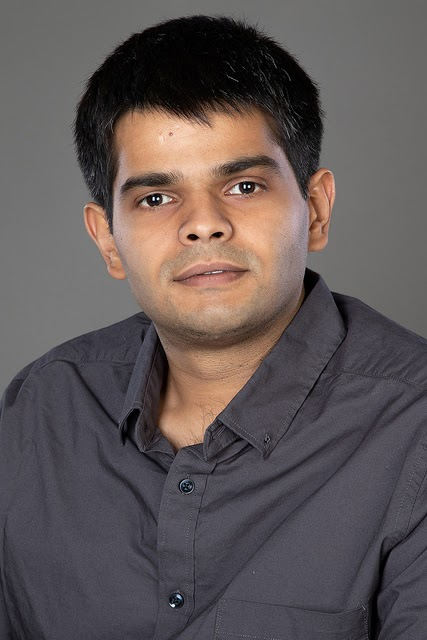
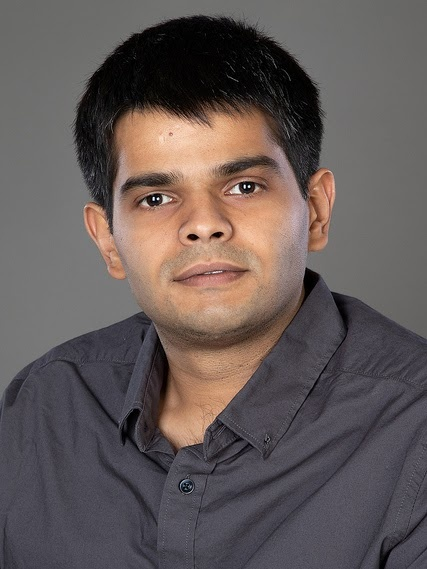
working on blog posts, cropped faculty images to ratio

diff --git a/_includes/header.html b/_includes/header.html
@@ -5,9 +5,23 @@
       <nav id="navbar" class="navbar navbar-light navbar-expand-sm {% if site.navbar_fixed %}fixed-top{% else %}sticky-top{% endif %}">
         <div class="container">
           {% if page.permalink != '/' -%}
-          <a class="navbar-brand title font-weight-lighter" href="{{ site.baseurl }}/">
+          <a class="navbar-brand switch" href="{{ site.baseurl }}/">
+
+
             
-            {%- if site.title == "blank" -%}
+              
+              {%- assign profile_image_path = page.profile.image | prepend: 'assets/img/' -%}
+              {%- assign profile_image_class = "img-fluid " -%}
+              
+              {% include figure.html 
+              path=profile_image_path 
+              class=nav
+              alt=page.profile.image -%}
+              
+            
+            
+
+            <!-- {%- if site.title == "blank" -%}
               {%- if site.first_name -%}
                 <span class="font-weight-bold">{{- site.first_name -}}&nbsp;</span>
               {%- endif -%}
@@ -19,8 +33,11 @@
               {%- endif -%}
             {%- else -%}
               {{- site.title -}}
-            {%- endif -%}
+            {%- endif -%} -->
           </a>
+
+
+          
           {%- elsif site.enable_navbar_social -%}
           <!-- Social Icons -->
           <div class="navbar-brand social">
@@ -44,7 +61,7 @@
                 {% endif %}
               {% endfor %}
 
-              <!-- About --> <!-- This is not required as the logo already points to the about page -->
+              <!-- About This is not required as the logo already points to the about page -->
               <!-- <li class="nav-item {% if page.permalink == '/' %}active{% endif %}">
                 <a class="nav-link" href="{{ '/' | relative_url }}">{{ about_title }}
                   {%- if page.permalink == '/' -%}

diff --git a/_layouts/home.html b/_layouts/home.html
@@ -1,0 +1,42 @@
+---
+layout: default
+---
+
+<!-- home.html -->
+      <div class="post">
+        <header class="post-header">
+          <h1 class="post-title">
+           {% if site.title == "blank" -%}<span class="font-weight-bold">{{ site.first_name }}</span> {{ site.middle_name }} {{ site.last_name }}{%- else -%}{{ site.title }}{%- endif %}
+          </h1>
+          <p class="desc">{{ page.subtitle }}</p>
+        </header>
+
+        <article>
+          {% if page.profile -%}
+          
+            
+          </div>
+          {%- endif %}
+
+          <div class="clearfix">
+            {{ content }}
+          </div>
+
+       
+          
+          <!-- Social -->
+          {%- if page.social %}
+            <div class="social">
+              <div class="contact-icons">
+                {% include social.html %}
+              </div>
+
+              <div class="contact-note">
+                {{ site.contact_note }}
+              </div>
+              
+            </div>
+          {%- endif %}
+        </article>
+
+</div>

diff --git a/_sass/_base.scss b/_sass/_base.scss
@@ -146,6 +146,10 @@ blockquote {
   border-bottom: 1px solid var(--global-divider-color);
   background-color: var(--global-bg-color);
   opacity: 0.95;
+  img {
+    height: 4rem;
+    
+  }
 }
 .navbar .dropdown-menu {
   background-color: var(--global-bg-color);
@@ -170,11 +174,12 @@ blockquote {
 .navbar.navbar-light {
   a {
     &:hover {
-      text-decoration: none;
+      text-decoration:none;
     }
   }
   .navbar-brand {
     color: var(--global-text-color);
+    
   }
   .navbar-nav .nav-item .nav-link {
     color: var(--global-text-color);
@@ -455,6 +460,7 @@ footer.sticky-bottom {
     width: 250px;
     margin-bottom: 10px;
     height: 400px;
+    max-inline-size: 3;
 
   }
 
@@ -531,6 +537,7 @@ footer.sticky-bottom {
   }
 
   .card {
+    
     img {
       
       height:auto;
@@ -553,11 +560,12 @@ footer.sticky-bottom {
 
     .row {
       display: flex;
-      align-items: center;
+      // align-items: center;
       
       
     }
   }
+  
 
   .grid-sizer, .grid-item {
     width: 200px;

diff --git a/_includes/people_new_layout.html b/_includes/people_new_layout.html
@@ -1,15 +1,23 @@
-<!-- _includes/people_new_layout.html-->
-
+<!-- _includes/people.html -->
 <div class="grid-sizer">
-  <div class="grid-item">
-    
-      <div class="card hoverable">
+<div class="grid-item">
 
-
-
- 
-      
-
+  <div class = "card-item">
+    <div class = "card hoverable">
+      <div class = "row g-1">
+        <div class="card-img col-md-6">
+          {% include figure.html path=people.img alt="people thumbnail" class="people.card-img" %}
+        </div>
+        
+        <div class="col-md-6">
+          <div class="card-body">
+            <h3 class="card-title">{{ people.title }}</h3>
+            <p class="card-text">{{ people.description }}</p>
+          </div>
+        </div>
+      </div>
     </div>
   </div>
+      
+</div>    
 </div>

diff --git a/_sass/_themes.scss b/_sass/_themes.scss
@@ -25,14 +25,16 @@
     padding-top: 12px;
     display : block;
   }
-
+  
   .repo-img-light {
     display: block;
   }
   .repo-img-dark {
     display: none;
   }
+  
 }
+
 
 html[data-theme='dark'] {
   --global-bg-color: #{$grey-color-dark};
@@ -47,8 +49,7 @@ html[data-theme='dark'] {
   --global-distill-app-color: #{$grey-color-light};
   --global-divider-color: #424246;
   --global-card-bg-color: #{$grey-900};
-  
-  
+
 
   .fa-sun {
     padding-left: 10px;
@@ -66,3 +67,4 @@ html[data-theme='dark'] {
     display: block;
   }
 }
+

diff --git a/assets/js/theme.js b/assets/js/theme.js
@@ -36,6 +36,7 @@ let setHighlight = (theme) => {
   if (theme == "dark") {
     document.getElementById("highlight_theme_light").media = "none";
     document.getElementById("highlight_theme_dark").media = "";
+    
   } else {
     document.getElementById("highlight_theme_dark").media = "none";
     document.getElementById("highlight_theme_light").media = "";

diff --git a/_posts/2023-02-27-Rooji Defense.md b/_posts/2023-02-27-Rooji Defense.md
@@ -1,0 +1,25 @@
+---
+layout: page
+title:  "PhD Thesis Oral Defence: Minimizing latency in data acquisition, distributed processing, storage, and retrieval"
+teaser: "Rooji Jinan, CNI Fellow during 2019-20 and 2021-22, will defend her thesis on March 1, 2023 (Wednesday) at 10 am.  Venue: RBCCPS Board Room
+(in-person event)."
+categories:
+    - defense
+permalink: /rooji_defense/
+header:
+ title: "PhD Thesis Oral Defence: Minimizing latency in data acquisition, distributed processing, storage, and retrieval"
+ background-color: "#334d5c"
+---
+
+<!-- ![]({{ site.url }}{{ site.baseurl }}/images/people/phd/Rooji.jpg) -->
+<img src="{{ site.url }}{{ site.baseurl }}/images/people/phd/Rooji.jpg"  width="100">
+
+Rojji Jinan, CNI Fellow during 2019-20 and 2021-22, will defend her thesis on March 1, 2023 (Wednesday) at 10 am.
+
+**Venue: RBCCPS Board Room** (in-person event).
+
+
+
+### Thesis abstract
+We study minimization of file access delays in distributed storage systems. We consider the setting of a distributed storage system where a single file is subdivided into smaller fragments of same size which are then replicated with a common replication factor across servers of identical cache size. An incoming file download request is sent to all the servers, and the download is completed whenever the request gathers all the fragments. At each server, we are interested in determining the set of fragments to be stored, and the sequence in which fragments should be accessed, such that the mean file download time for a request is minimized. We model the fragment download time as an exponential random variable independent and identically distributed for all fragments across all servers and show that the mean file download time can be lower bounded in terms of the expected number of useful servers summed over all distinct fragment downloads. We study deterministic storage schemes that attempt to maximize the number of useful servers. We show that finding the optimal sequence of accessing the fragments is a Markov decision problem, whose complexity grows exponentially with the number of fragments. We propose heuristic algorithms that determine the sequence of access to the fragments which are empirically shown to perform well.
+

diff --git a/_pages/home.md b/_pages/home.md
@@ -1,0 +1,23 @@
+---
+layout: home
+title: home
+permalink: /home/
+subtitle: <a href='#'>Affiliations</a>. Address. Contacts. Moto. Etc.
+
+profile:
+  align: left
+  image: logo.png
+  dark_image: logo_black.png
+  image_circular: false # crops the image to make it circular
+  address: >
+    <p>#EC 2.11,</p>
+    <p>Department of Electrical Communication Engineering,</p>
+    <p>Indian Institute of Science Campus,</p>
+    <p>Sir C V Raman Road, Bengaluru</p>
+    <p>Karnataka 560012</p>
+
+news: true  # includes a list of news items
+selected_papers: true # includes a list of papers marked as "selected={true}"
+social: true  # includes social icons at the bottom of the page
+
+---

diff --git a/_people/Vaibhav Katewa.md b/_people/Vaibhav Katewa.md
@@ -2,7 +2,7 @@
 layout: page
 title: Vaibhav Katewa
 description: Assistant Professor, Department of Electrical Communication Engineering (ECE)
-img: assets/img/people/faculty/Vaibhav_Katewa.jpg
+img: assets/img/people/faculty/Profile_Pic_Vaibhav_Katewa.jpg
 importance: 3
 category: Faculty
 redirect: https://ece.iisc.ac.in/anurag/

diff --git a/_people/Chandra Murthy.md b/_people/Chandra Murthy.md
@@ -2,7 +2,7 @@
 layout: page
 title: Chandra Murthy 
 description: Assistant Professor, Department of Electrical Communication Engineering (ECE)
-img: assets/img/people/faculty/Chandra-M.jpeg
+img: assets/img/people/faculty/Chandra-M.jpg
 importance: 3
 category: Faculty
 redirect: https://ece.iisc.ac.in/~cmurthy/doku.php?id=home

diff --git a/_people/Aditya Gopalan.md b/_people/Aditya Gopalan.md
@@ -2,7 +2,7 @@
 layout: page
 title: Aditya Gopalan 
 description: Assistant Professor, Department of Electrical Communication Engineering (ECE)
-img: assets/img/people/faculty/Aditya_pic_NY.jpeg
+img: assets/img/people/faculty/Aditya_pic_NY.jpg
 importance: 4
 category: Faculty
 redirect: https://ece.iisc.ac.in/~aditya/

diff --git a/_people/Parimal Parag.md b/_people/Parimal Parag.md
@@ -2,7 +2,7 @@
 layout: page
 title: Parimal Parag ( Convener )
 description: Assistant Professor, Department of Electrical Communication Engineering (ECE)
-img: assets/img/people/faculty/Parimal.jpeg
+img: assets/img/people/faculty/Parimal.jpg
 importance: 1
 category: Faculty
 redirect: https://ece.iisc.ac.in/~parimal/
